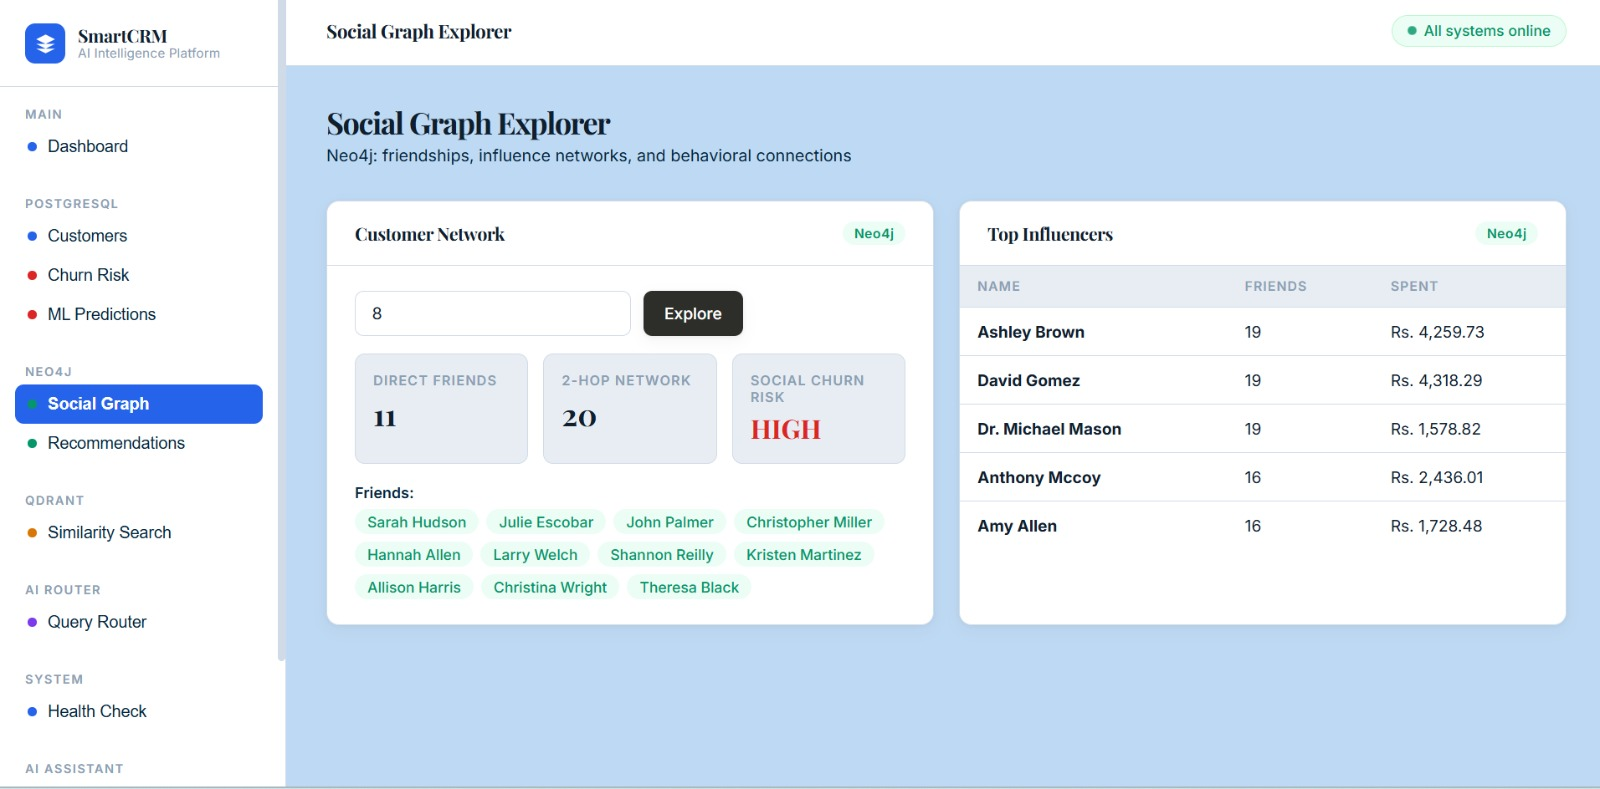
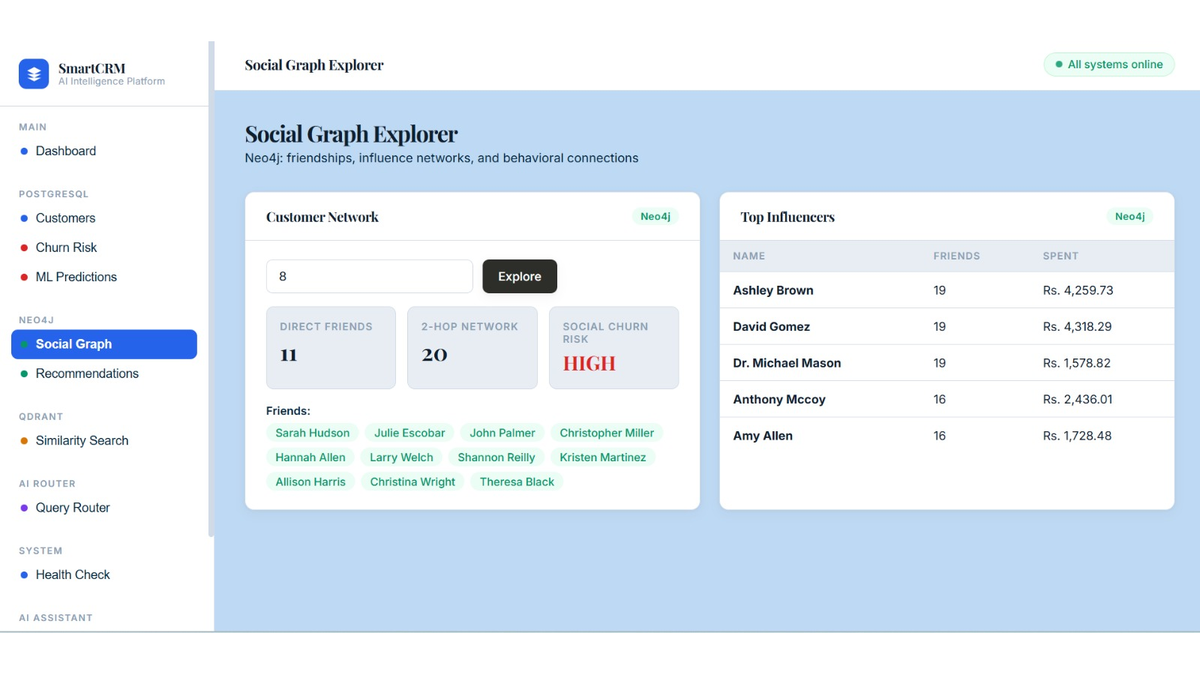
fix: replace project images with pre-cropped 16:9 versions, drop image for Smart Emergency

diff --git a/src/components/Projects.tsx b/src/components/Projects.tsx
@@ -26,62 +26,10 @@ function LandscapeImage({ screenshot, name }: { screenshot: string; name: string
         src={screenshot}
         alt={`${name} screenshot`}
         fill
-        className="object-contain"
+        className="object-cover"
         onError={() => setError(true)}
         sizes="(max-width: 768px) 100vw, (max-width: 1200px) 50vw, 33vw"
       />
-    </div>
-  );
-}
-
-function VoxlinkImage() {
-  const [appError, setAppError] = useState(false);
-  const [hwError, setHwError] = useState(false);
-
-  return (
-    <div className="relative w-full h-[300px] rounded-xl overflow-hidden border border-border mb-6 shadow-sm flex">
-      {/* Left panel — mobile app screenshot with phone frame */}
-      <div className="relative w-1/2 h-full bg-bg-secondary flex items-center justify-center">
-        {!appError ? (
-          <div className="relative w-[42%] h-[85%] rounded-[18px] border-2 border-fg-muted/30 overflow-hidden shadow-sm bg-white">
-            <Image
-              src="/projects/voxlink.png"
-              alt="VOXLINK mobile app screenshot"
-              fill
-              className="object-contain"
-              onError={() => setAppError(true)}
-              sizes="25vw"
-            />
-          </div>
-        ) : (
-          <div className="flex flex-col items-center gap-1.5">
-            <Code size={18} className="text-fg-muted/30" />
-            <span className="text-[10px] text-fg-muted/30">App</span>
-          </div>
-        )}
-      </div>
-
-      {/* Divider */}
-      <div className="w-px bg-border self-stretch" />
-
-      {/* Right panel — hardware photo */}
-      <div className="relative w-1/2 h-full bg-bg-secondary flex items-center justify-center">
-        {!hwError ? (
-          <Image
-            src="/projects/voxlink-hardware.jpg"
-            alt="VOXLINK hardware setup"
-            fill
-            className="object-contain"
-            onError={() => setHwError(true)}
-            sizes="25vw"
-          />
-        ) : (
-          <div className="flex flex-col items-center gap-1.5">
-            <Code size={18} className="text-fg-muted/30" />
-            <span className="text-[10px] text-fg-muted/30">Hardware</span>
-          </div>
-        )}
-      </div>
     </div>
   );
 }
@@ -92,49 +40,54 @@ function ProjectCard({
   project: (typeof projectsContent)[number];
 }) {
   const { ref, revealed } = useScrollReveal();
+  const hasScreenshot = Boolean(project.screenshot);
 
   return (
     <div
       ref={ref}
       className={`card-lift border-2 border-accent/30 bg-bg-elevated rounded-2xl p-8 flex flex-col shadow-sm scroll-reveal ${revealed ? "revealed" : ""}`}
     >
-      {/* Header — centered */}
-      <div className="text-center mb-5">
-        <h3 className="text-xl font-display font-bold text-fg">{project.name}</h3>
-        <p className="mt-1 text-sm text-accent tracking-wide truncate">
-          {project.tagline}
-        </p>
-      </div>
-
-      {/* Per-project image treatment */}
-      {project.name === "VOXLINK" ? (
-        <VoxlinkImage />
-      ) : project.screenshot ? (
-        <LandscapeImage screenshot={project.screenshot} name={project.name} />
-      ) : (
-        <div className="relative w-full h-[300px] bg-bg-secondary rounded-xl border border-border mb-6 flex items-center justify-center overflow-hidden">
-          <div className="flex flex-col items-center gap-1.5">
-            <Code size={20} className="text-fg-muted/30" />
-            <span className="text-xs text-fg-muted/30">{project.name}</span>
-          </div>
+      {/* Content — vertically centered when there's no image to balance the card */}
+      <div
+        className={`flex-1 flex flex-col ${
+          hasScreenshot ? "" : "justify-center"
+        }`}
+      >
+        {/* Header — centered */}
+        <div className={`text-center ${hasScreenshot ? "mb-5" : "mb-8"}`}>
+          <h3 className="text-xl font-display font-bold text-fg">
+            {project.name}
+          </h3>
+          <p className="mt-1 text-sm text-accent tracking-wide truncate">
+            {project.tagline}
+          </p>
         </div>
-      )}
 
-      {/* Description */}
-      <p className="text-sm text-fg-muted leading-relaxed text-justify line-clamp-3 mb-6">
-        {project.description}
-      </p>
+        {/* Image — only when a screenshot exists */}
+        {hasScreenshot && (
+          <LandscapeImage screenshot={project.screenshot!} name={project.name} />
+        )}
 
-      {/* Tech stack pills — text-only, electric blue on white */}
-      <div className="flex flex-wrap justify-center gap-2 mb-6">
-        {project.techStack.map((tech) => (
-          <span
-            key={tech}
-            className="px-2.5 py-1 text-xs font-medium text-[#0066FF] bg-white border border-blue-200/60 rounded-full"
-          >
-            {tech}
-          </span>
-        ))}
+        {/* Description */}
+        <p
+          className={`text-sm text-fg-muted leading-relaxed text-justify line-clamp-3 ${
+            hasScreenshot ? "mb-6" : "mb-8 max-w-md mx-auto"
+          }`}
+        >
+          {project.description}
+        </p>
+
+        {/* Tech stack pills — text-only, electric blue on white */}
+        <div className="flex flex-wrap justify-center gap-2 mb-6">
+          {project.techStack.map((tech) => (
+            <span
+              key={tech}
+              className="px-2.5 py-1 text-xs font-medium text-[#0066FF] bg-white border border-blue-200/60 rounded-full"
+            >
+              {tech}
+            </span>
+          ))}
+        </div>
       </div>
 
       {/* Buttons — centered (or spacer for equal card heights) */}

diff --git a/src/data/portfolio-content.ts b/src/data/portfolio-content.ts
@@ -138,7 +138,6 @@ export const projectsContent: Project[] = [
       github: "https://github.com/Mairaarshad19/Smart_Emergency_Response_System",
     },
     featured: false,
-    screenshot: "/projects/smart-emergency.png",
     tagline: "Full-Stack Desktop App || Emergency Services",
   },
   {
